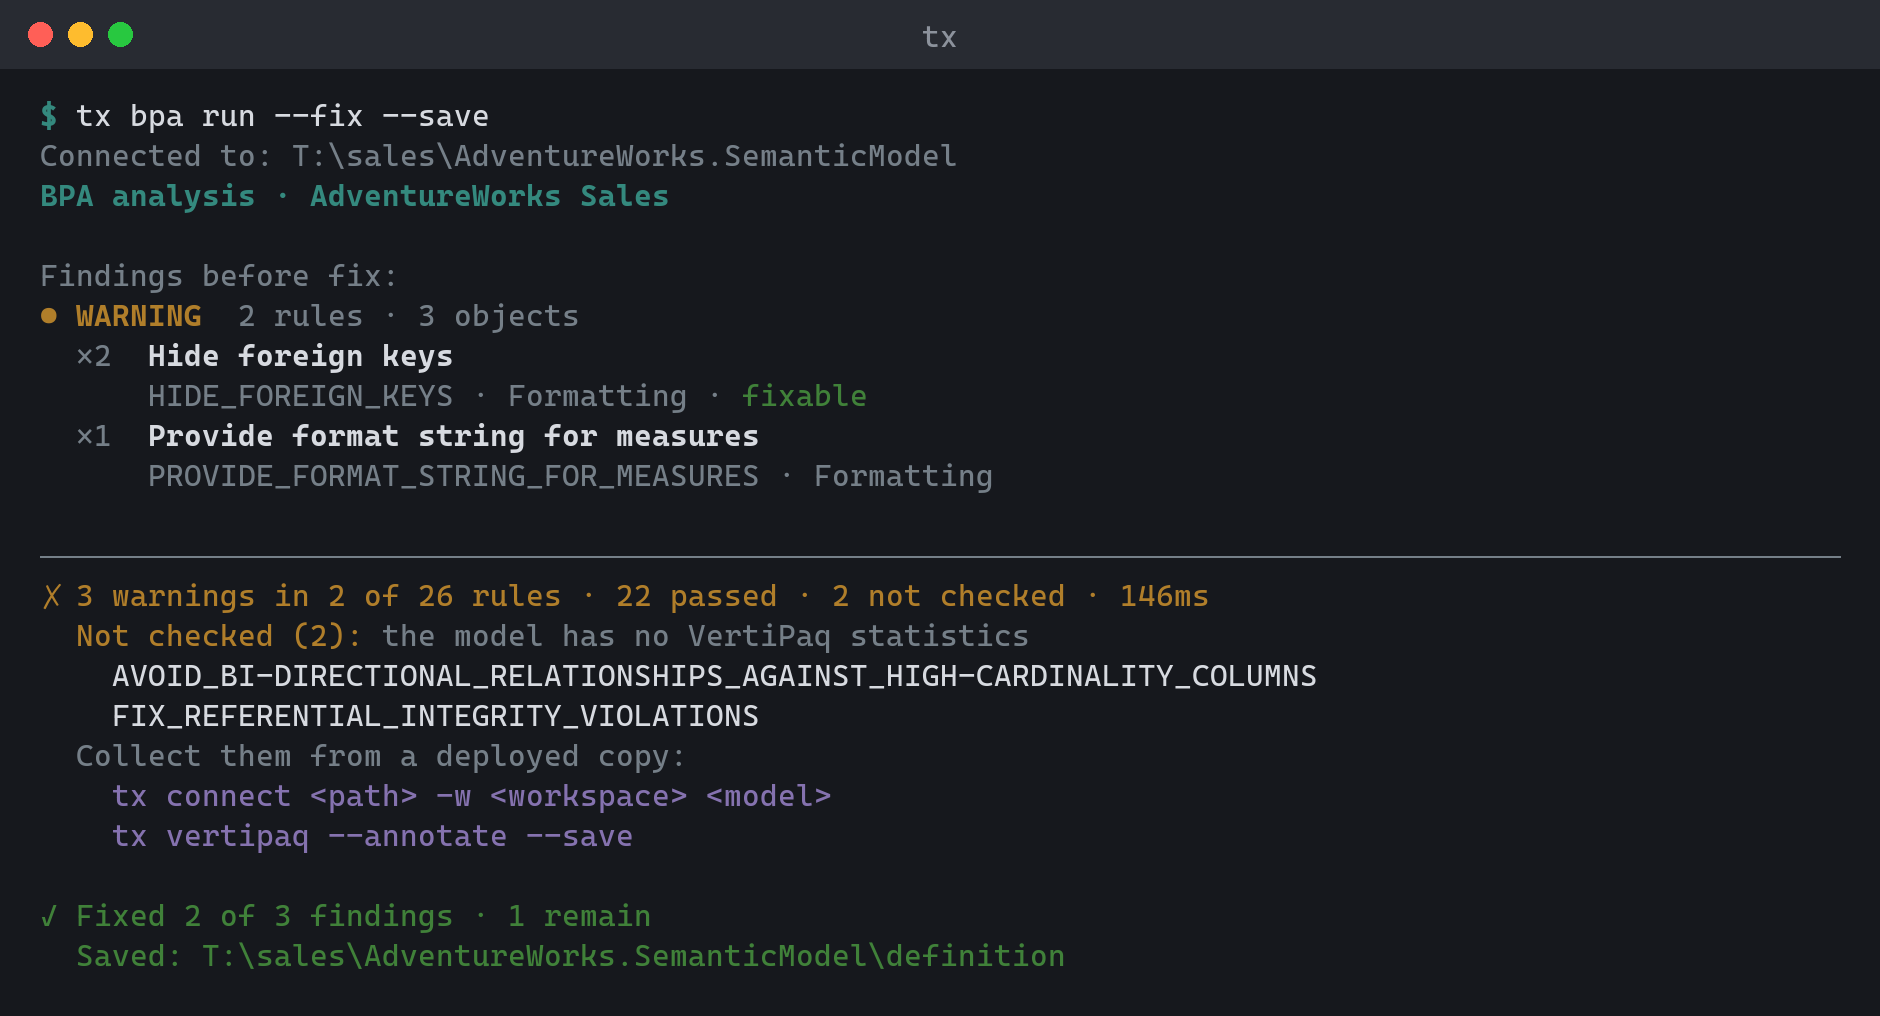
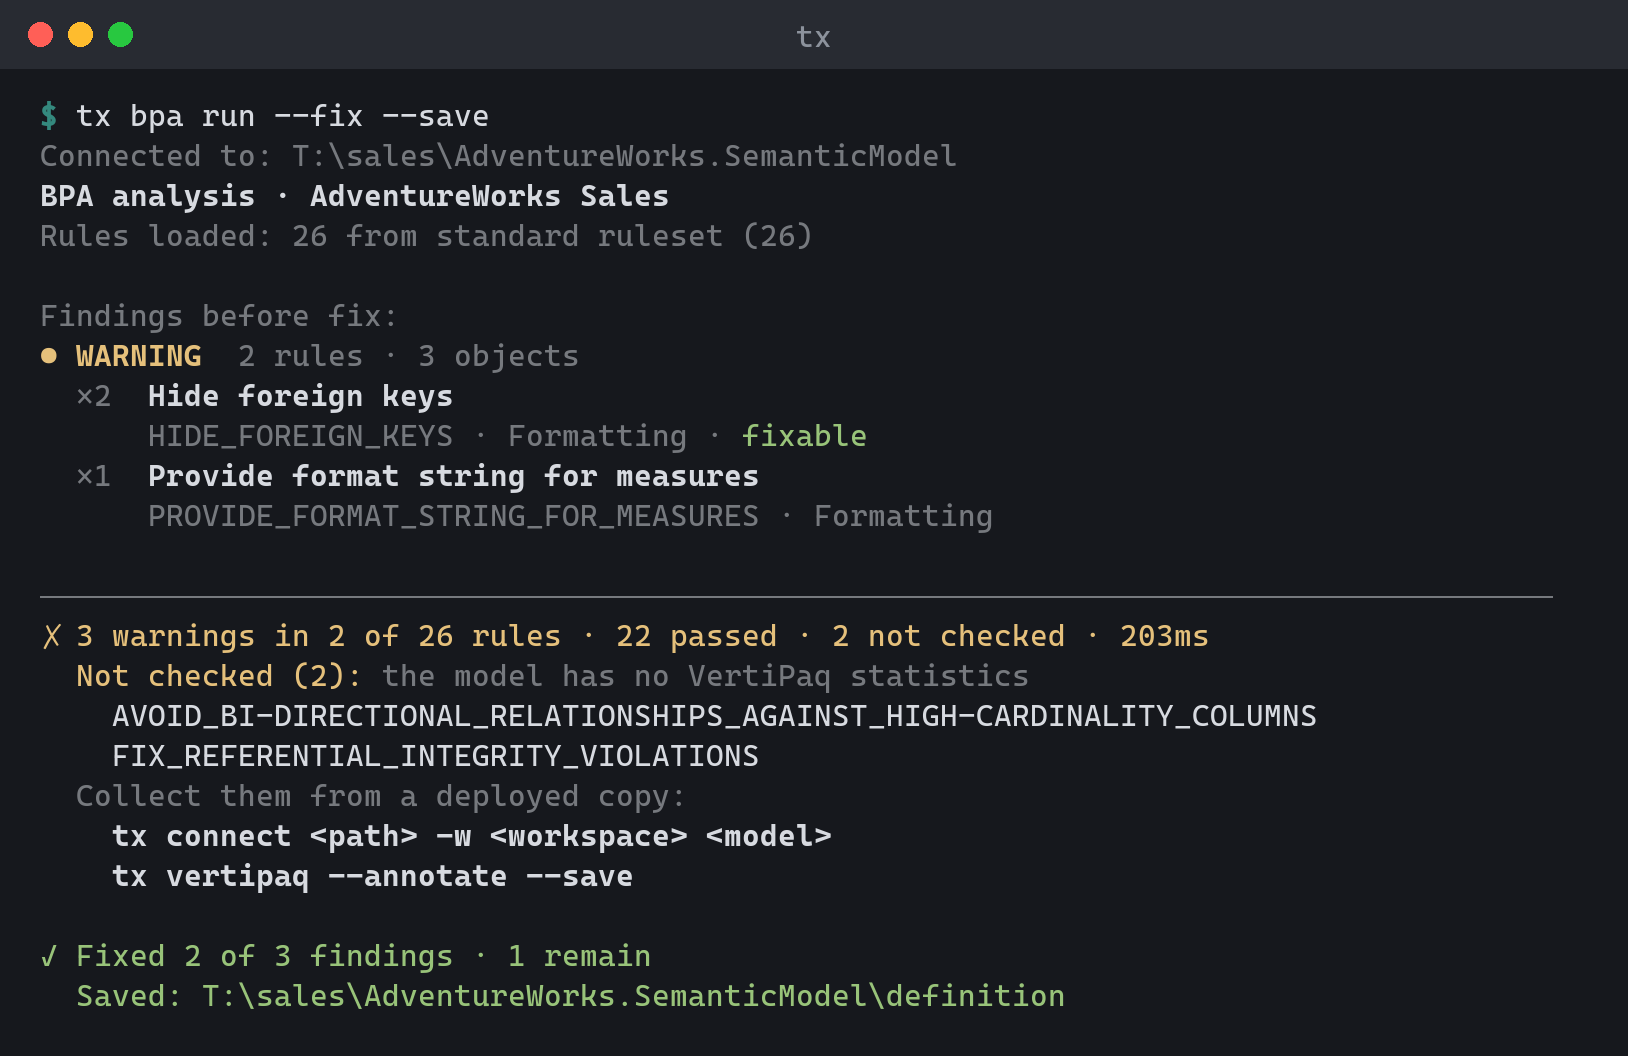
docs(media): re-record the README and docs media with the ANSI palette
The recorder now maps ESC[38;5;0-15m to its theme's 16 ANSI colors and draws
faint (SGR 2) text dimmed, so the media matches what tx prints in a terminal.

diff --git a/scripts/docs-media/record.py b/scripts/docs-media/record.py
@@ -45,8 +45,8 @@ HERE = Path(__file__).resolve().parent
 REPO = HERE.parent.parent
 OUT_DIR = REPO / "docs" / "assets" / "media"
 
-# Theme: a neutral dark terminal. tx itself emits truecolor for its palette,
-# so these only matter for default text and the 16 named ANSI colors.
+# Theme: a neutral dark terminal. tx colors with the 16 ANSI palette indexes
+# (ESC[38;5;0-15m), so this table decides every color in the media.
 BG = (22, 24, 29)
 FG = (215, 218, 224)
 CHROME = (40, 43, 50)
@@ -134,6 +134,39 @@ def hex_rgb(value: str, default):
     return default
 
 
+# Blend toward the background for faint (SGR 2) text, as most terminals draw it.
+DIM_MIX = 0.5
+
+
+def dimmed(rgb):
+    return tuple(round(c * (1 - DIM_MIX) + b * DIM_MIX) for c, b in zip(rgb, BG))
+
+
+class PaletteScreen(pyte.Screen):
+    """pyte with tx's color and faint text: ESC[38;5;n] for n < 16 becomes the
+    named ANSI color (so ANSI above themes it), and faint rides in pyte's blink
+    attribute, which tx never uses."""
+
+    def select_graphic_rendition(self, *attrs, **kwargs):
+        out: list[int] = []
+        i = 0
+        while i < len(attrs):
+            a = attrs[i]
+            if a in (38, 48) and i + 2 < len(attrs) and attrs[i + 1] == 5 and attrs[i + 2] < 16:
+                n = attrs[i + 2]
+                base = 30 if a == 38 else 40
+                out.append(base + n if n < 8 else base + 60 + n - 8)
+                i += 3
+            elif a in (38, 48) and i + 1 < len(attrs) and attrs[i + 1] in (2, 5):
+                width = 5 if attrs[i + 1] == 2 else 3
+                out.extend(attrs[i:i + width])
+                i += width
+            else:
+                out.extend({2: [5], 22: [22, 25]}.get(a, [a]))
+                i += 1
+        super().select_graphic_rendition(*out, **kwargs)
+
+
 def screen_lines(screen: pyte.Screen) -> list[Line]:
     """Visible lines of a per-command screen, trimmed to what has been written."""
     last = -1
@@ -144,6 +177,8 @@ def screen_lines(screen: pyte.Screen) -> list[Line]:
         for x in range(screen.columns):
             ch = row[x]
             fg = hex_rgb(ch.fg, FG)
+            if ch.blink:  # faint, see PaletteScreen
+                fg = dimmed(fg)
             bg = hex_rgb(ch.bg, None)
             if ch.reverse:
                 fg, bg = (bg or BG), fg
@@ -305,7 +340,7 @@ def build_frames(scene: dict, tx: list[str], workdir: Path, env: dict[str, str],
         history = history + text_line([prompt, (command, FG, False)], cols)
 
         # Replay output with its real timing (long gaps compressed).
-        screen = pyte.Screen(cols, 400)
+        screen = PaletteScreen(cols, 400)
         stream = pyte.Stream(screen)
         prev_t = 0.0
         for t, data in cap.chunks:
